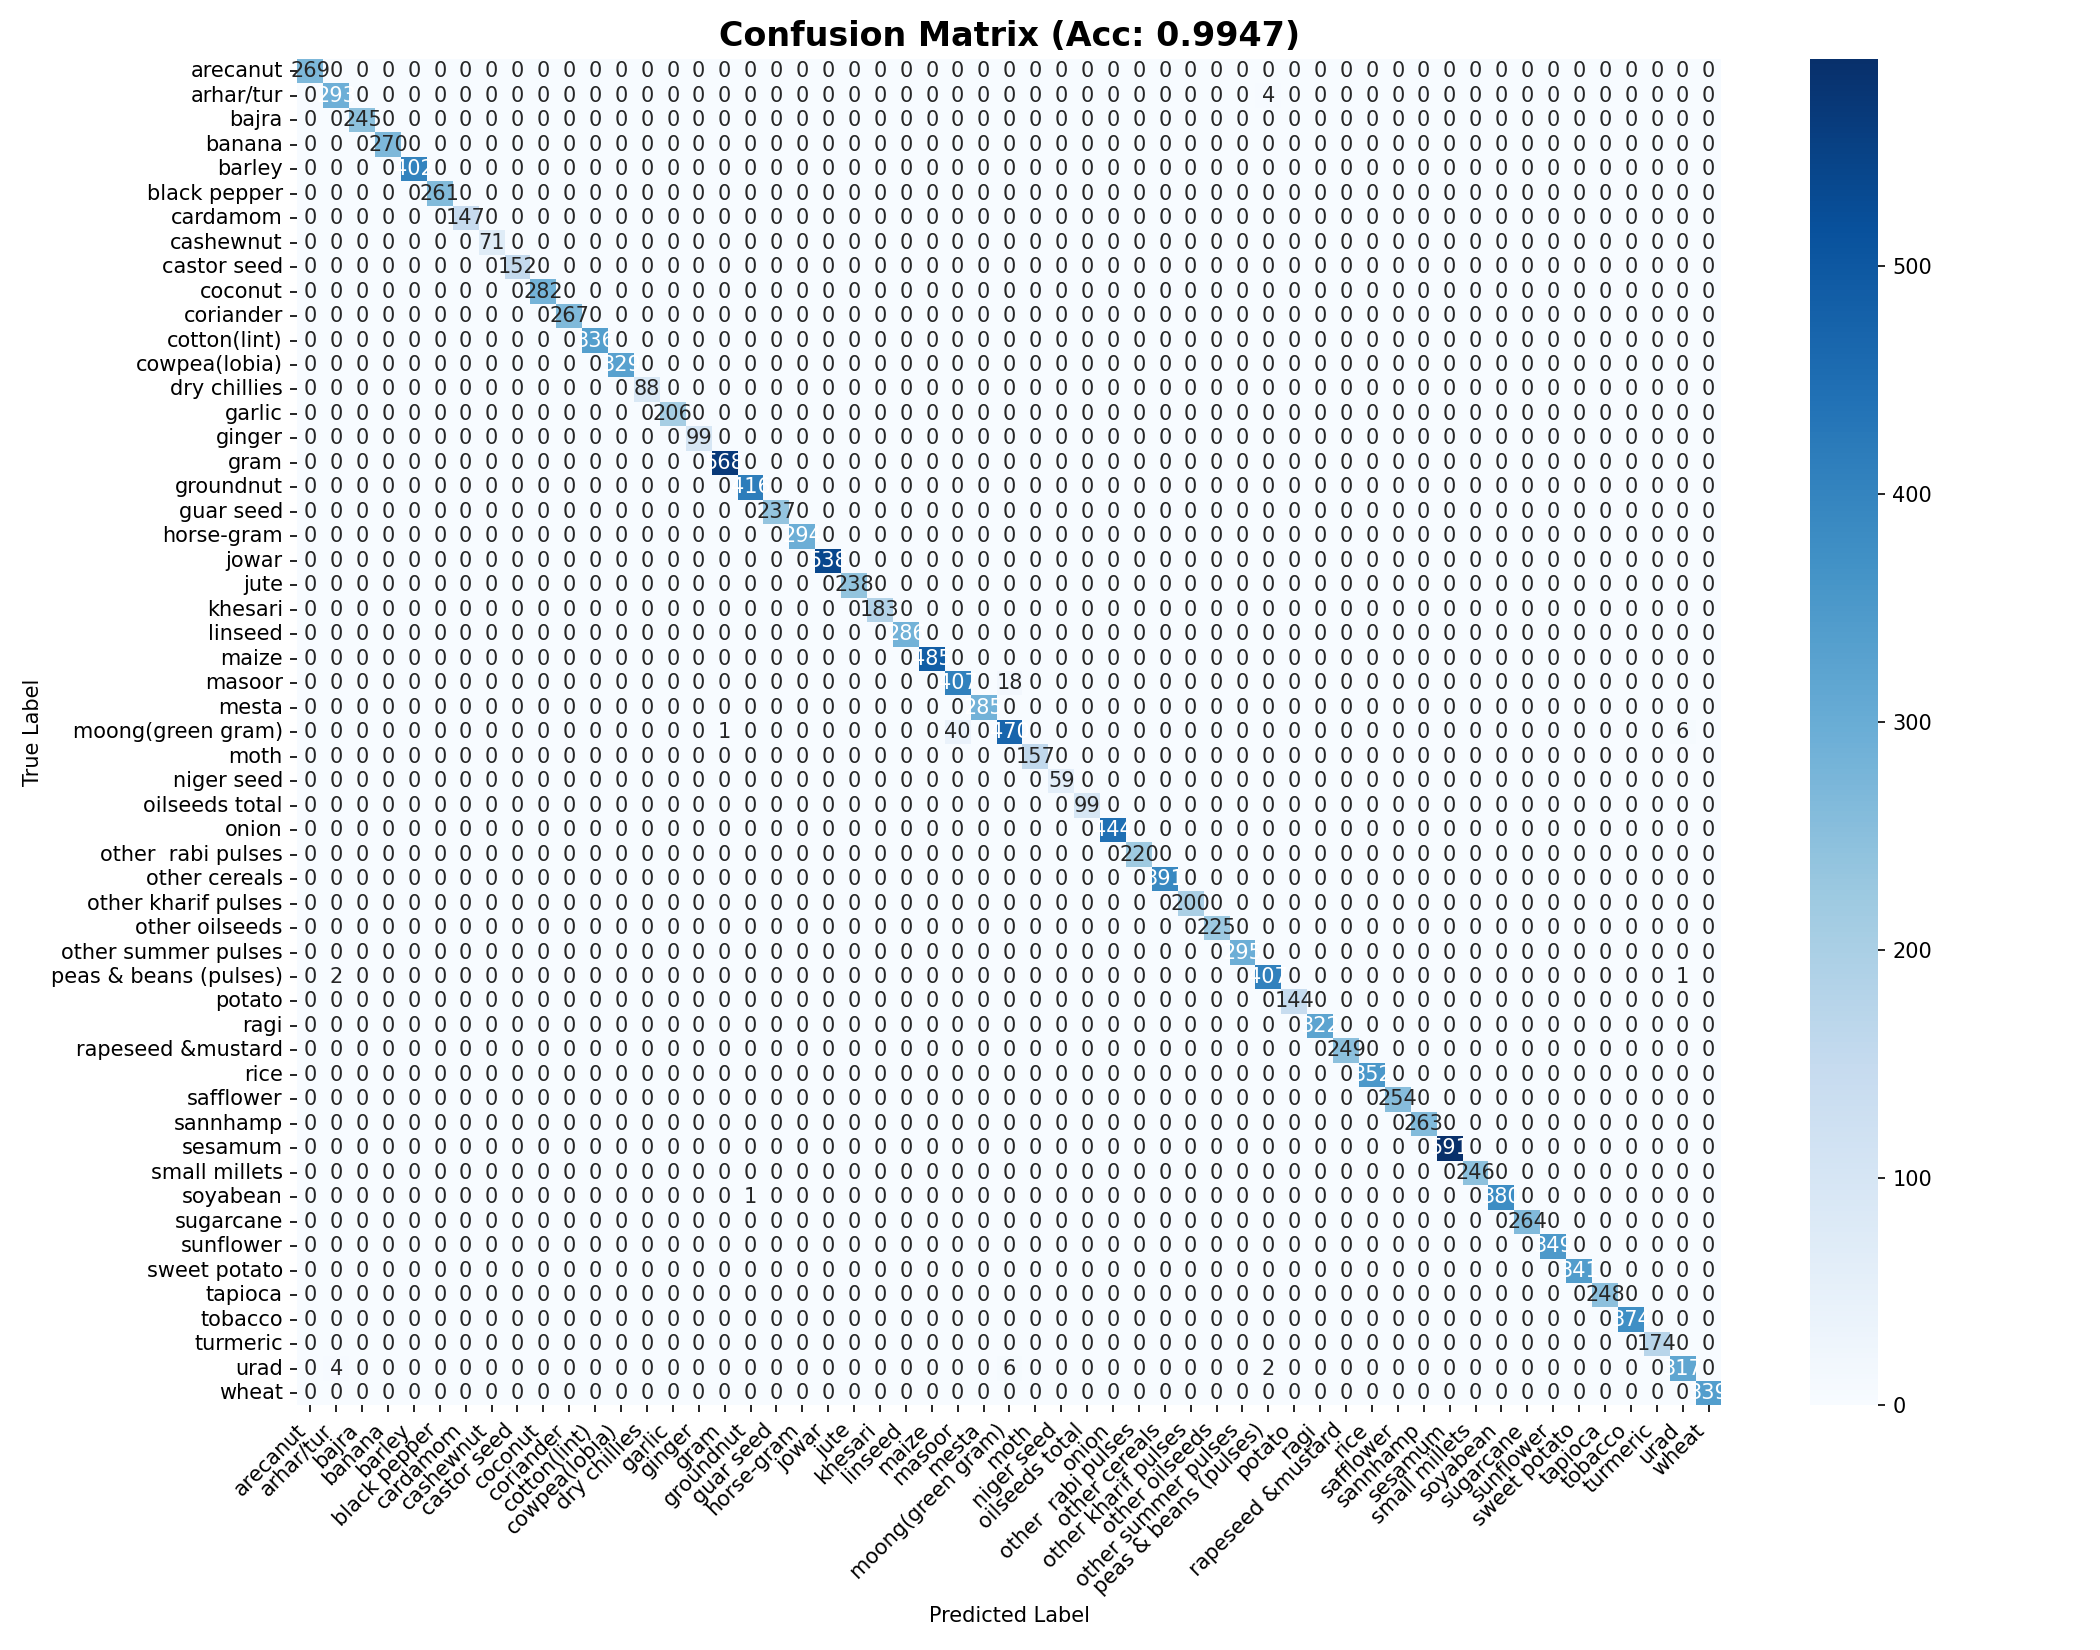
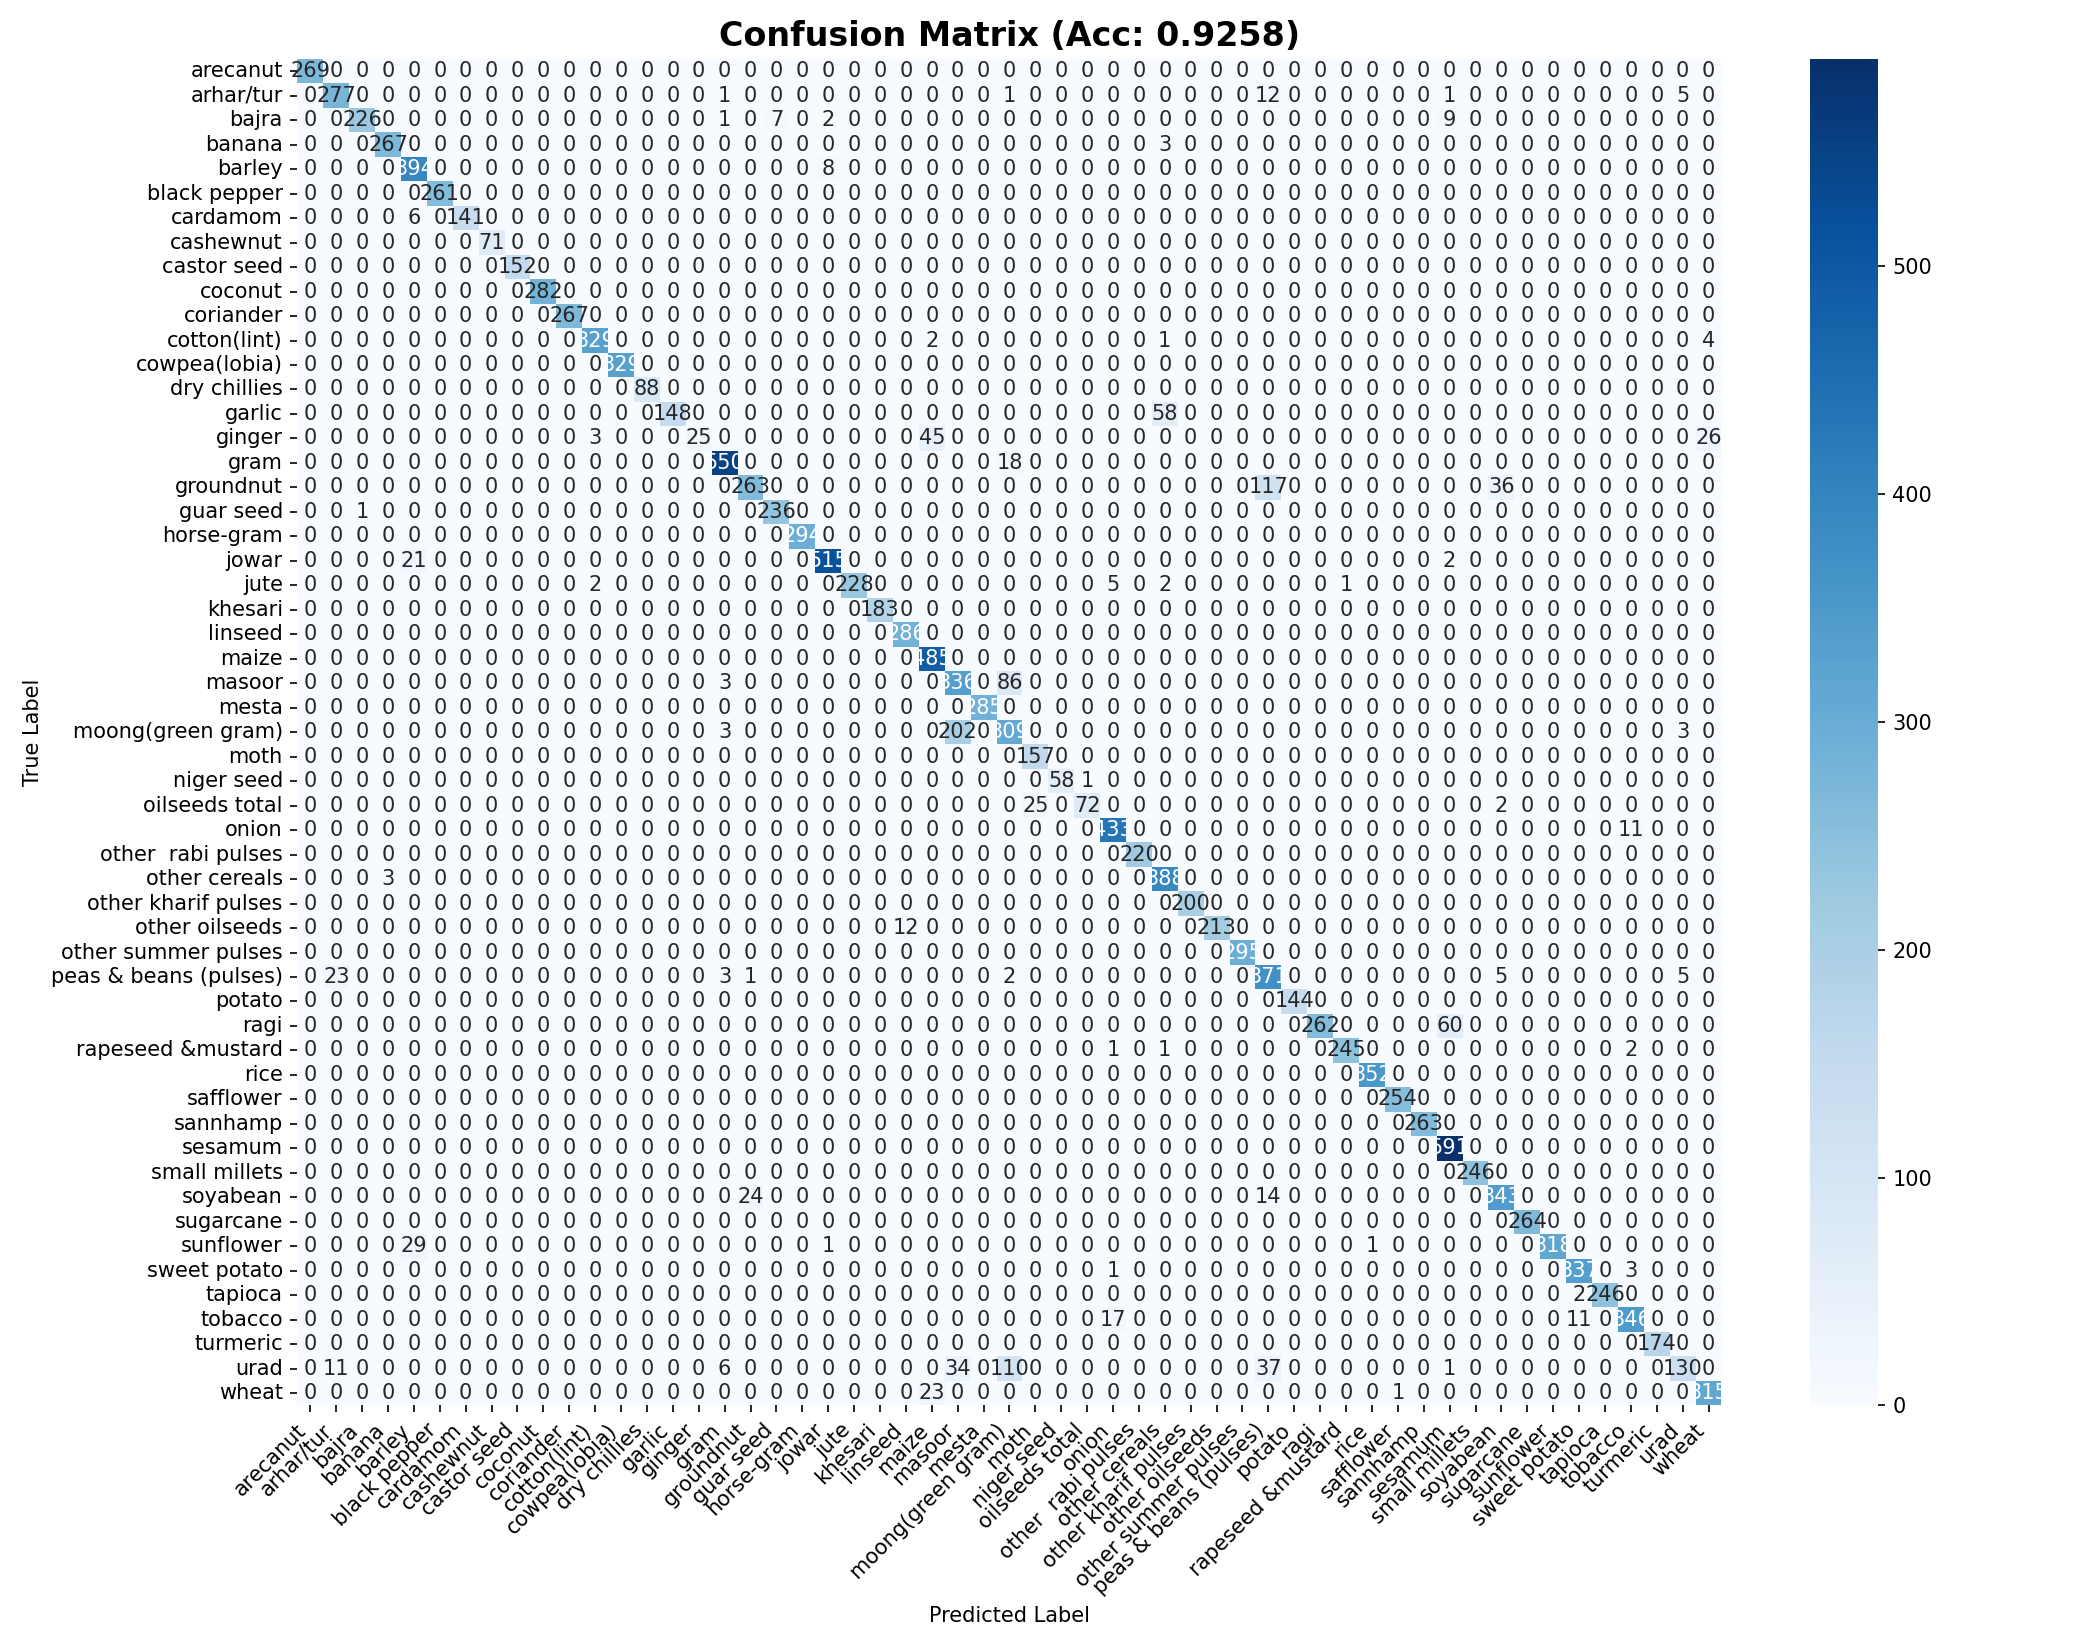
Update app.py with weather API condition fallbacks and manual weather override panel

diff --git a/app.py b/app.py
@@ -149,12 +149,34 @@ def get_weather(city):
             data = response.json()
             temp = data['main']['temp']
             humidity = data['main']['humidity']
+            
+            # Fetching weather condition ID and main status description...
+            weather_id = data['weather'][0]['id'] if 'weather' in data and len(data['weather']) > 0 else 800
+            weather_main = data['weather'][0]['main'].lower() if 'weather' in data and len(data['weather']) > 0 else ""
+            
             rain_info = data.get('rain', {})
             rainfall = rain_info.get('1h', rain_info.get('3h', 0.0))
+            
+            # Estimating rainfall from weather codes if the direct rain gauge value is missing or 0.0...
+            if rainfall == 0.0:
+                # Codes 2xx: Thunderstorm, 3xx: Drizzle, 5xx: Rain
+                if 200 <= weather_id < 300:
+                    rainfall = 5.0 # Estimating thunderstorm rain...
+                elif 300 <= weather_id < 400:
+                    rainfall = 1.5 # Estimating drizzle...
+                elif 500 <= weather_id < 600:
+                    if weather_id in [500, 520, 531]:
+                        rainfall = 2.0 # Estimating light rain...
+                    else:
+                        rainfall = 6.0 # Estimating moderate/heavy rain...
+                elif "rain" in weather_main or "drizzle" in weather_main or "thunderstorm" in weather_main:
+                    rainfall = 3.0 # Setting general rain fallback...
+                    
             return float(temp), float(humidity), float(rainfall)
     except:
         pass
     return 25.6, 71.5, 0.0 # Fallback averages...
+
 
 def search_cities(query):
     """Searching matching cities using OpenWeatherMap Geocoding API..."""
@@ -619,6 +641,20 @@ pesticide_input = st.sidebar.number_input("Planned Pesticide (kg)", 0.0, 1000000
 st.sidebar.markdown("### 💧 Water Profile")
 rainfall_input = st.sidebar.slider("Expected Seasonal Rainfall (mm)", 100, 3500, int(default_rain_avg), step=50, key=f"rain_slider_{city}_{season_input}")
 
+st.sidebar.markdown("---")
+st.sidebar.markdown("### 🔧 Weather API Override")
+override_weather = st.sidebar.checkbox("Override Live Weather", value=False)
+if override_weather:
+    # Querying manual weather inputs...
+    manual_temp = st.sidebar.slider("Current Temperature (°C)", 10.0, 50.0, float(default_temp_avg), step=0.5)
+    manual_humidity = st.sidebar.slider("Current Humidity (%)", 10, 100, int(default_hum_avg))
+    manual_current_rain = st.sidebar.slider("Current Rainfall (mm/hr)", 0.0, 50.0, 0.0, step=0.5)
+else:
+    manual_temp = 0.0
+    manual_humidity = 0
+    manual_current_rain = 0.0
+
+
 
 
 
@@ -635,8 +671,14 @@ if predict_button:
             model, scaler, feature_cols = load_artifacts()
             model_clf, scaler_clf, feature_cols_clf, le = load_clf_artifacts()
             
-            # Fetching weather parameters...
-            temp, humidity, current_rain = get_weather(city)
+            # Retrieving weather parameters...
+            if override_weather:
+                temp = manual_temp
+                humidity = manual_humidity
+                current_rain = manual_current_rain
+            else:
+                temp, humidity, current_rain = get_weather(city)
+
             
             # --- 1. Recommendation Prediction via Classifier ---
             row_clf = {
@@ -752,7 +794,8 @@ if predict_button:
             
             with col_right:
                 # Displaying live metrics alongside seasonal averages in the card...
-                st.markdown(get_weather_card(temp, humidity, current_rain, default_temp_avg, default_hum_avg, rainfall_input, city), unsafe_allow_html=True)
+                display_city = city + " (Override)" if override_weather else city
+                st.markdown(get_weather_card(temp, humidity, current_rain, default_temp_avg, default_hum_avg, rainfall_input, display_city), unsafe_allow_html=True)
                 
                 st.markdown(f"<h4 style='margin:1.5rem 0 0.5rem 0; color:#047857;'>Cultivation Economics ({planting_area:.1f} Hectares):</h4>", unsafe_allow_html=True)
                 
